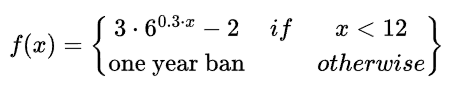
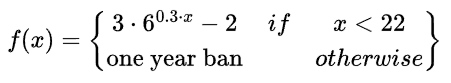
typo

diff --git a/2024/Buzi/README.md b/2024/Buzi/README.md
@@ -17,7 +17,7 @@ Note: if you want to save a human-readable file, you should also set `IS_HUMAN_R
 If you want to save it in binary format, then you can set `IS_HUMAN_READABLE` to `false` and specify the file as in the following example: `output.bin`.
 
 To customize the function that calculates the banning time you can edit the following parameters:
-`function_a = 3, function_base = 6, function_b = 0.3, function_offset = -2, max_matches = 12`.
+`function_a = 3, function_base = 6, function_b = 0.3, function_offset = -2, max_matches = 22`.
 
 The default function looks like this:
 <div id="center" >
